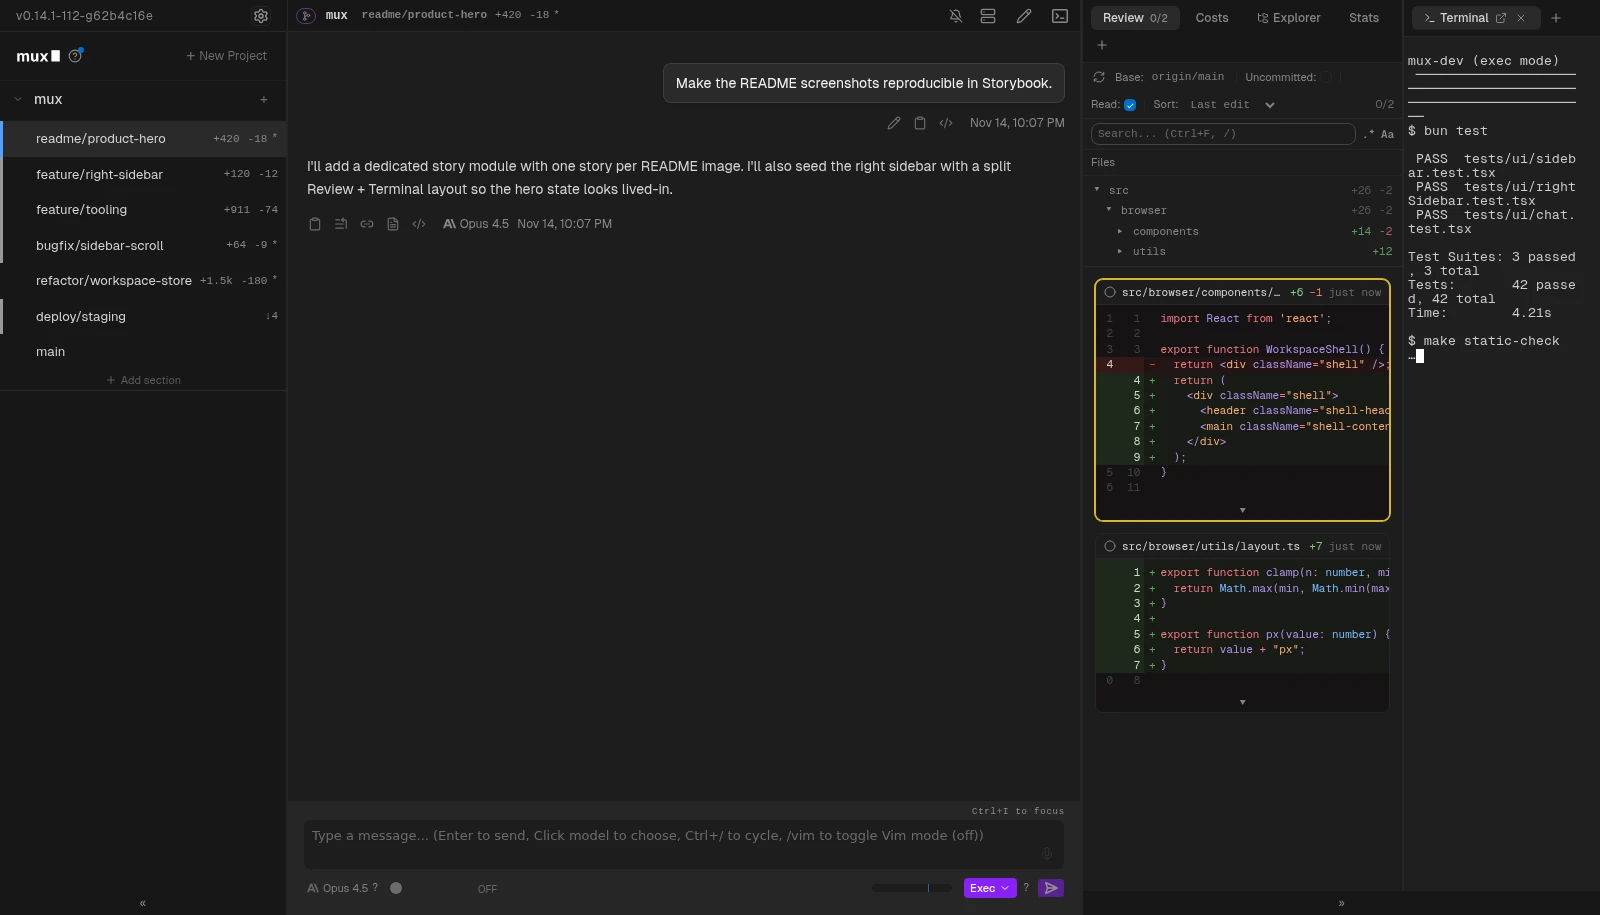
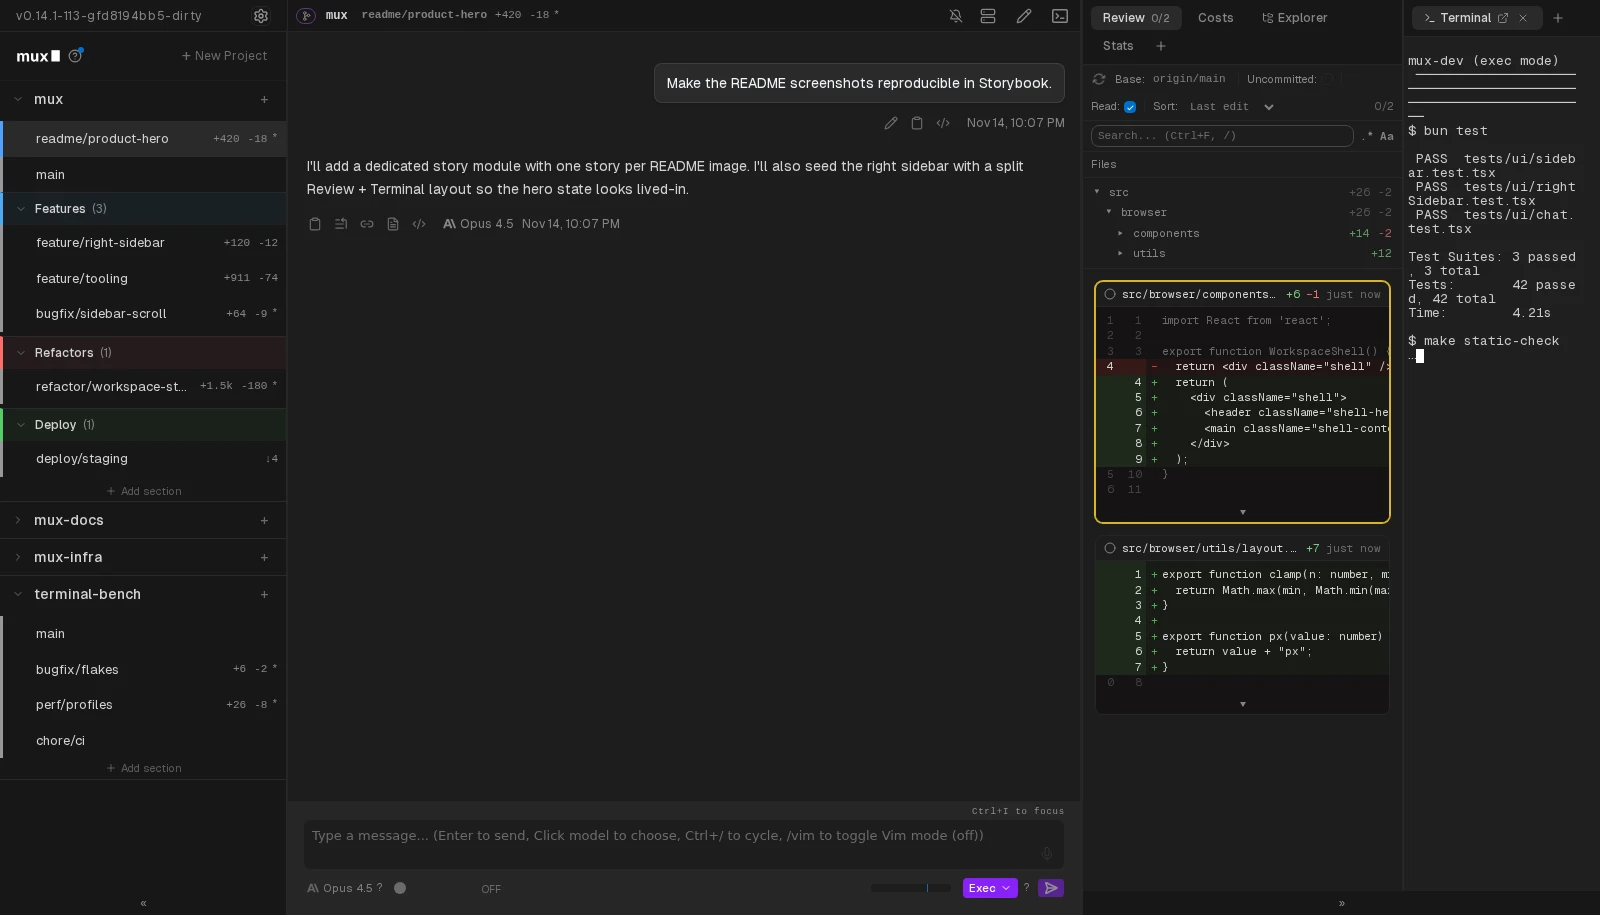
tests: enrich README hero sidebar fixtures

diff --git a/src/browser/stories/App.readmeScreenshots.stories.tsx b/src/browser/stories/App.readmeScreenshots.stories.tsx
@@ -174,58 +174,198 @@ export const ProductHero: AppStory = {
         const workspaceId = "ws-hero";
         const terminalSessionId = "term-hero";
 
-        const workspaces = [
+        const TERMINAL_BENCH_PROJECT_NAME = "terminal-bench";
+        const TERMINAL_BENCH_PROJECT_PATH = `/home/user/projects/${TERMINAL_BENCH_PROJECT_NAME}`;
+        const DOCS_PROJECT_NAME = "mux-docs";
+        const DOCS_PROJECT_PATH = `/home/user/projects/${DOCS_PROJECT_NAME}`;
+        const INFRA_PROJECT_NAME = "mux-infra";
+        const INFRA_PROJECT_PATH = `/home/user/projects/${INFRA_PROJECT_NAME}`;
+
+        const SECTION_FEATURES = "f00dbabe";
+        const SECTION_REFACTORS = "c0ffeec0";
+        const SECTION_DEPLOY = "d15ea5ed";
+
+        const wsHero = createWorkspace({
+          id: workspaceId,
+          name: "readme/product-hero",
+          projectName: README_PROJECT_NAME,
+          projectPath: README_PROJECT_PATH,
+          createdAt: new Date(NOW - 30 * 60_000).toISOString(),
+        });
+
+        const wsReview = createWorkspace({
+          id: "ws-review",
+          name: "feature/right-sidebar",
+          projectName: README_PROJECT_NAME,
+          projectPath: README_PROJECT_PATH,
+          createdAt: new Date(NOW - 2 * 60 * 60_000).toISOString(),
+        });
+        wsReview.sectionId = SECTION_FEATURES;
+
+        const wsAhead = createWorkspace({
+          id: "ws-ahead",
+          name: "feature/tooling",
+          projectName: README_PROJECT_NAME,
+          projectPath: README_PROJECT_PATH,
+          createdAt: new Date(NOW - 3 * 60 * 60_000).toISOString(),
+        });
+        wsAhead.sectionId = SECTION_FEATURES;
+
+        const wsDirty = createWorkspace({
+          id: "ws-dirty",
+          name: "bugfix/sidebar-scroll",
+          projectName: README_PROJECT_NAME,
+          projectPath: README_PROJECT_PATH,
+          createdAt: new Date(NOW - 4 * 60 * 60_000).toISOString(),
+        });
+        wsDirty.sectionId = SECTION_FEATURES;
+
+        const wsDiverged = createWorkspace({
+          id: "ws-diverged",
+          name: "refactor/workspace-store",
+          projectName: README_PROJECT_NAME,
+          projectPath: README_PROJECT_PATH,
+          createdAt: new Date(NOW - 5 * 60 * 60_000).toISOString(),
+        });
+        wsDiverged.sectionId = SECTION_REFACTORS;
+
+        const wsSsh = createSSHWorkspace({
+          id: "ws-ssh",
+          name: "deploy/staging",
+          projectName: README_PROJECT_NAME,
+          projectPath: README_PROJECT_PATH,
+          host: "staging.example.com",
+          createdAt: new Date(NOW - 6 * 60 * 60_000).toISOString(),
+        });
+        wsSsh.sectionId = SECTION_DEPLOY;
+
+        const wsClean = createWorkspace({
+          id: "ws-clean",
+          name: "main",
+          projectName: README_PROJECT_NAME,
+          projectPath: README_PROJECT_PATH,
+          createdAt: new Date(NOW - 7 * 60 * 60_000).toISOString(),
+        });
+
+        const terminalBenchWorkspaces = [
           createWorkspace({
-            id: workspaceId,
-            name: "readme/product-hero",
-            projectName: README_PROJECT_NAME,
-            projectPath: README_PROJECT_PATH,
-            createdAt: new Date(NOW - 30 * 60_000).toISOString(),
-          }),
-          createWorkspace({
-            id: "ws-review",
-            name: "feature/right-sidebar",
-            projectName: README_PROJECT_NAME,
-            projectPath: README_PROJECT_PATH,
-            createdAt: new Date(NOW - 2 * 60 * 60_000).toISOString(),
-          }),
-          createWorkspace({
-            id: "ws-ahead",
-            name: "feature/tooling",
-            projectName: README_PROJECT_NAME,
-            projectPath: README_PROJECT_PATH,
-            createdAt: new Date(NOW - 3 * 60 * 60_000).toISOString(),
-          }),
-          createWorkspace({
-            id: "ws-dirty",
-            name: "bugfix/sidebar-scroll",
-            projectName: README_PROJECT_NAME,
-            projectPath: README_PROJECT_PATH,
-            createdAt: new Date(NOW - 4 * 60 * 60_000).toISOString(),
-          }),
-          createWorkspace({
-            id: "ws-diverged",
-            name: "refactor/workspace-store",
-            projectName: README_PROJECT_NAME,
-            projectPath: README_PROJECT_PATH,
-            createdAt: new Date(NOW - 5 * 60 * 60_000).toISOString(),
-          }),
-          createSSHWorkspace({
-            id: "ws-ssh",
-            name: "deploy/staging",
-            projectName: README_PROJECT_NAME,
-            projectPath: README_PROJECT_PATH,
-            host: "staging.example.com",
-            createdAt: new Date(NOW - 6 * 60 * 60_000).toISOString(),
-          }),
-          createWorkspace({
-            id: "ws-clean",
+            id: "ws-tb-main",
             name: "main",
-            projectName: README_PROJECT_NAME,
-            projectPath: README_PROJECT_PATH,
-            createdAt: new Date(NOW - 7 * 60 * 60_000).toISOString(),
+            projectName: TERMINAL_BENCH_PROJECT_NAME,
+            projectPath: TERMINAL_BENCH_PROJECT_PATH,
+            createdAt: new Date(NOW - 8 * 60 * 60_000).toISOString(),
+          }),
+          createWorkspace({
+            id: "ws-tb-flakes",
+            name: "bugfix/flakes",
+            projectName: TERMINAL_BENCH_PROJECT_NAME,
+            projectPath: TERMINAL_BENCH_PROJECT_PATH,
+            createdAt: new Date(NOW - 9 * 60 * 60_000).toISOString(),
+          }),
+          createWorkspace({
+            id: "ws-tb-profiles",
+            name: "perf/profiles",
+            projectName: TERMINAL_BENCH_PROJECT_NAME,
+            projectPath: TERMINAL_BENCH_PROJECT_PATH,
+            createdAt: new Date(NOW - 10 * 60 * 60_000).toISOString(),
+          }),
+          createWorkspace({
+            id: "ws-tb-ci",
+            name: "chore/ci",
+            projectName: TERMINAL_BENCH_PROJECT_NAME,
+            projectPath: TERMINAL_BENCH_PROJECT_PATH,
+            createdAt: new Date(NOW - 11 * 60 * 60_000).toISOString(),
           }),
         ];
+
+        const docsWorkspaces = [
+          createWorkspace({
+            id: "ws-docs-main",
+            name: "main",
+            projectName: DOCS_PROJECT_NAME,
+            projectPath: DOCS_PROJECT_PATH,
+            createdAt: new Date(NOW - 12 * 60 * 60_000).toISOString(),
+          }),
+          createWorkspace({
+            id: "ws-docs-readme",
+            name: "docs/readme-refresh",
+            projectName: DOCS_PROJECT_NAME,
+            projectPath: DOCS_PROJECT_PATH,
+            createdAt: new Date(NOW - 13 * 60 * 60_000).toISOString(),
+          }),
+          createWorkspace({
+            id: "ws-docs-site",
+            name: "feature/site-nav",
+            projectName: DOCS_PROJECT_NAME,
+            projectPath: DOCS_PROJECT_PATH,
+            createdAt: new Date(NOW - 14 * 60 * 60_000).toISOString(),
+          }),
+        ];
+
+        const infraWorkspaces = [
+          createWorkspace({
+            id: "ws-infra-main",
+            name: "main",
+            projectName: INFRA_PROJECT_NAME,
+            projectPath: INFRA_PROJECT_PATH,
+            createdAt: new Date(NOW - 15 * 60 * 60_000).toISOString(),
+          }),
+          createWorkspace({
+            id: "ws-infra-terraform",
+            name: "feature/terraform",
+            projectName: INFRA_PROJECT_NAME,
+            projectPath: INFRA_PROJECT_PATH,
+            createdAt: new Date(NOW - 16 * 60 * 60_000).toISOString(),
+          }),
+          createWorkspace({
+            id: "ws-infra-alerts",
+            name: "chore/alerts",
+            projectName: INFRA_PROJECT_NAME,
+            projectPath: INFRA_PROJECT_PATH,
+            createdAt: new Date(NOW - 17 * 60 * 60_000).toISOString(),
+          }),
+        ];
+
+        const workspaces = [
+          wsHero,
+          wsReview,
+          wsAhead,
+          wsDirty,
+          wsDiverged,
+          wsSsh,
+          wsClean,
+          ...terminalBenchWorkspaces,
+          ...docsWorkspaces,
+          ...infraWorkspaces,
+        ];
+
+        const projects = groupWorkspacesByProject(workspaces);
+        const muxConfig = projects.get(README_PROJECT_PATH);
+        if (muxConfig) {
+          projects.set(README_PROJECT_PATH, {
+            ...muxConfig,
+            sections: [
+              {
+                id: SECTION_FEATURES,
+                name: "Features",
+                color: "#4dabf7",
+                nextId: SECTION_REFACTORS,
+              },
+              {
+                id: SECTION_REFACTORS,
+                name: "Refactors",
+                color: "#ff6b6b",
+                nextId: SECTION_DEPLOY,
+              },
+              {
+                id: SECTION_DEPLOY,
+                name: "Deploy",
+                color: "#51cf66",
+                nextId: null,
+              },
+            ],
+          });
+        }
 
         const gitStatus = new Map<string, GitStatusFixture>([
           [workspaceId, { dirty: 2, outgoingAdditions: 420, outgoingDeletions: 18 }],
@@ -238,6 +378,12 @@ export const ProductHero: AppStory = {
           ],
           ["ws-ssh", { behind: 4, originCommit: "Update deployment" }],
           ["ws-clean", {}],
+
+          // Extra workspaces/projects for a busier sidebar.
+          ["ws-tb-flakes", { dirty: 3 }],
+          ["ws-tb-profiles", { ahead: 2, dirty: 1 }],
+          ["ws-docs-readme", { ahead: 1, dirty: 1 }],
+          ["ws-infra-terraform", { behind: 2 }],
         ]);
 
         const gitDiff = new Map([
@@ -270,9 +416,9 @@ export const ProductHero: AppStory = {
           ],
         ]);
 
-        // Make the project look expanded/busy, matching the README hero composition.
-        expandProjects([README_PROJECT_PATH]);
-        selectWorkspace(workspaces[0]);
+        // Make the sidebar look expanded/busy, matching the README hero composition.
+        expandProjects([README_PROJECT_PATH, TERMINAL_BENCH_PROJECT_PATH]);
+        selectWorkspace(wsHero);
 
         // Force a split layout: Review (top) + Terminal (bottom).
         const layout: RightSidebarLayoutState = {
@@ -316,7 +462,7 @@ export const ProductHero: AppStory = {
         ];
 
         return createMockORPCClient({
-          projects: groupWorkspacesByProject(workspaces),
+          projects,
           workspaces,
           onChat: createOnChatAdapter(chatHandlers),
           executeBash: createGitStatusExecutor(gitStatus, gitDiff),
